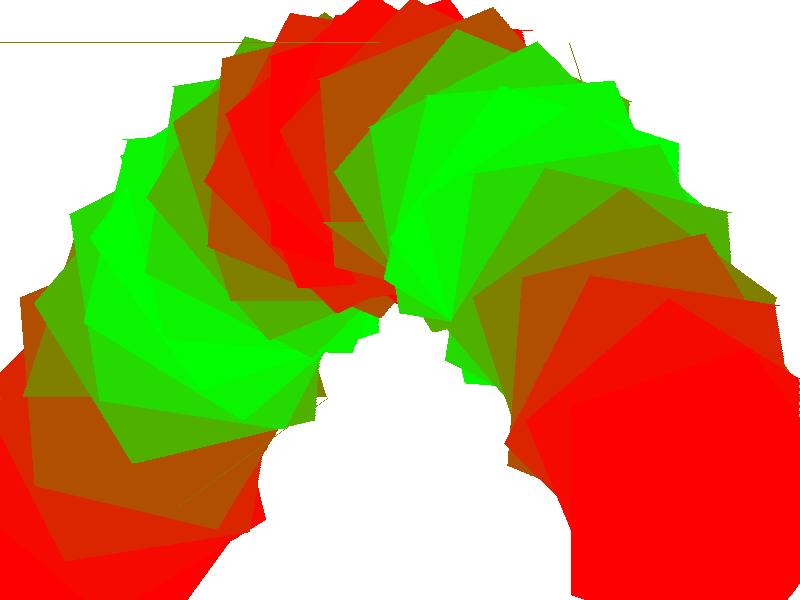
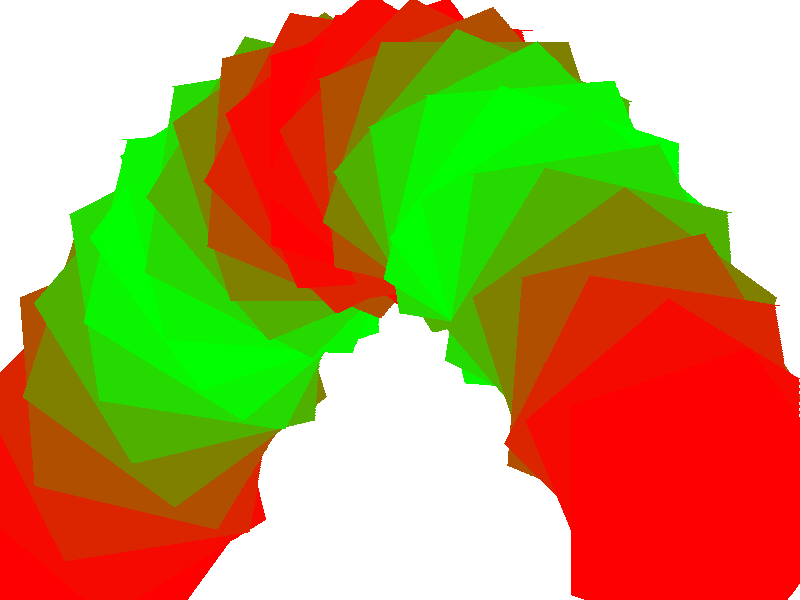
Replace std:sort within SortPointConvex to use std::tie instead of fabs of the difference, makes it slightly more accurate. Added check in edge clipping to remove horizontal edges, for some reason it didn't remove everything so i added a hard remove of top == bottom.

diff --git a/apps/image_recs.cpp b/apps/image_recs.cpp
@@ -768,25 +768,25 @@ static void draw_stroke_rings(GCanvas* canvas) {
 ///////////////////////////////////////////////////////////////////////////////////////////////////
 
 const CS575DrawRec gDrawRecs[] = {
-    { draw_solid_ramp,  256 * RAMP_W, 7*RAMP_H, 1, "solid_ramp"    },
-    { draw_blend_white, 200, 200,               1, "blend_white"   },
-    { draw_blend_black, 200, 200,               1, "blend_black"   },
+  { draw_solid_ramp,  256 * RAMP_W, 7*RAMP_H, 1, "solid_ramp"    },
+  { draw_blend_white, 200, 200,               1, "blend_white"   },
+  { draw_blend_black, 200, 200,               1, "blend_black"   },
 
-    { draw_spocks_quad, 300, 300,               2, "spocks_quad"   },
-    { draw_spocks_zoom, 300, 300,               2, "spocks_zoom"   },
-    { draw_bm_circles,  300, 300,               2, "circles_blend" },
-    { draw_circle_big,  400, 300,               2, "circles_fat"   },
+  { draw_spocks_quad, 300, 300,               2, "spocks_quad"   },
+  { draw_spocks_zoom, 300, 300,               2, "spocks_zoom"   },
+  { draw_bm_circles,  300, 300,               2, "circles_blend" },
+  { draw_circle_big,  400, 300,               2, "circles_fat"   },
 
-    { draw_tri,         256, 256,               3, "tri"           },
-    { draw_tri_clipped, 256, 256,               3, "tri_clipped"   },
-    { draw_poly,        512, 512,               3, "poly"          },
-    { draw_poly_center, 256, 256,               3, "poly_center"   },
-    { draw_poly_rotate, 230, 230,               3, "poly_rotate"   },
+  { draw_tri,         256, 256,               3, "tri"           },
+  { draw_tri_clipped, 256, 256,               3, "tri_clipped"   },
+  { draw_poly,        512, 512,               3, "poly"          },
+  { draw_poly_center, 256, 256,               3, "poly_center"   },
+  { draw_poly_rotate, 230, 230,               3, "poly_rotate"   },
 
-    { draw_concat_scale,        DRAW_CONCAT_W, DRAW_CONCAT_H, 4, "draw_concat_scale" },
-    { draw_concat_scale_bitmap, DRAW_CONCAT_W, DRAW_CONCAT_H, 4, "draw_concat_scale_bitmap" },
-    { draw_concat_rotate,       DRAW_CONCAT_W, DRAW_CONCAT_H, 4, "draw_concat_rotate" },
-    { draw_concat_rotate_bitmap,DRAW_CONCAT_W, DRAW_CONCAT_H, 4, "draw_concat_rotate_bitmap" },
+  { draw_concat_scale,        DRAW_CONCAT_W, DRAW_CONCAT_H, 4, "draw_concat_scale" },
+  { draw_concat_scale_bitmap, DRAW_CONCAT_W, DRAW_CONCAT_H, 4, "draw_concat_scale_bitmap" },
+  { draw_concat_rotate,       DRAW_CONCAT_W, DRAW_CONCAT_H, 4, "draw_concat_rotate" },
+  { draw_concat_rotate_bitmap,DRAW_CONCAT_W, DRAW_CONCAT_H, 4, "draw_concat_rotate_bitmap" },
 
     { draw_grad_insets, 400, 400,               5, "gradient_insets" },
     { draw_grad_insets_rot, 400, 400,           5, "gradient_insets_rot" },

diff --git a/apps/draw.cpp b/apps/draw.cpp
@@ -70,8 +70,8 @@ static bool in_resize_corner(const GRect& r, float x, float y, GPoint* anchor) {
 }
 
 static void draw_corner(GCanvas* canvas, const GColor& c, float x, float y, float dx, float dy) {
-    canvas->fillRect(make_from_pts(GPoint::Make(x, y - 1), GPoint::Make(x + dx, y + 1)), c);
-    canvas->fillRect(make_from_pts(GPoint::Make(x - 1, y), GPoint::Make(x + 1, y + dy)), c);
+  //canvas->fillRect(make_from_pts(GPoint::Make(x, y - 1), GPoint::Make(x + dx, y + 1)), c);
+  //canvas->fillRect(make_from_pts(GPoint::Make(x - 1, y), GPoint::Make(x + 1, y + dy)), c);
 }
 
 class Shape {

diff --git a/GEdge.cpp b/GEdge.cpp
@@ -48,7 +48,7 @@ bool GEdge::pinTopAndBot(int Height)
     nBottom = Height;
   }
 
-  if (std::isinf(fSlope) || std::isnan(fSlope))
+  if (std::isinf(fSlope) || std::isnan(fSlope) || nTop == nBottom)
   {
     return false;
   }
